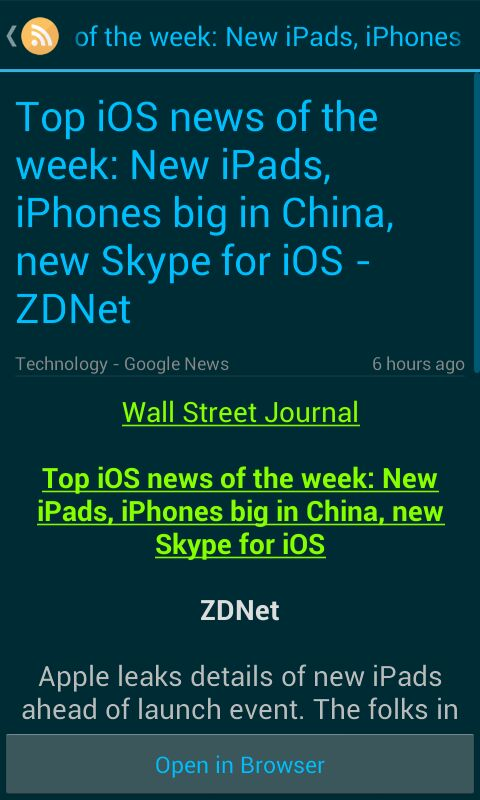
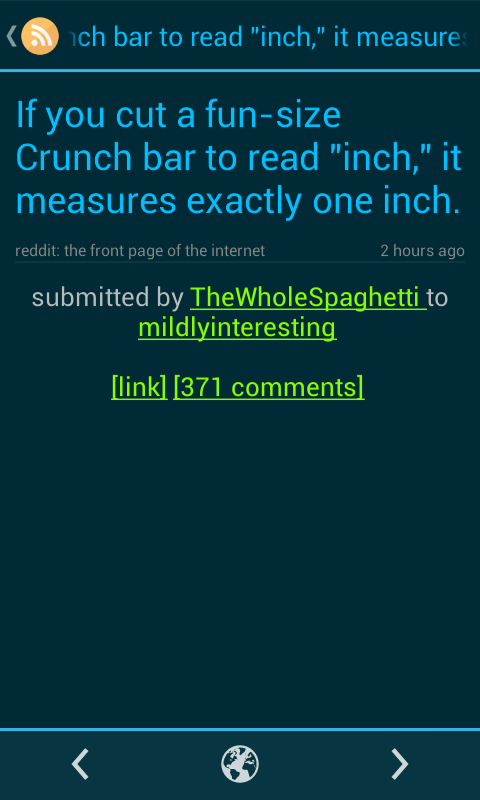
Add bottom action bar for ArticleView
Improve logic for reloading RSSDataBundle data when resuming from ArticleView
activity

diff --git a/app/src/main/java/tan/chesley/rssfeedreader/ArticleView.java b/app/src/main/java/tan/chesley/rssfeedreader/ArticleView.java
@@ -3,6 +3,7 @@ package tan.chesley.rssfeedreader;
 import android.app.ActionBar;
 import android.app.Activity;
 import android.content.Intent;
+import android.net.Uri;
 import android.os.Bundle;
 import android.support.v4.app.FixedFragmentStatePagerAdapter;
 import android.support.v4.app.Fragment;
@@ -12,8 +13,12 @@ import android.support.v4.app.FragmentStatePagerAdapter;
 import android.support.v4.view.ViewPager;
 import android.text.TextUtils.TruncateAt;
 import android.text.method.SingleLineTransformationMethod;
+import android.util.Log;
 import android.view.MenuItem;
+import android.view.View;
+import android.widget.LinearLayout;
 import android.widget.TextView;
+import android.widget.Toast;
 
 import java.util.ArrayList;
 
@@ -26,6 +31,9 @@ public class ArticleView extends FragmentActivity {
 	private ArticleViewPagerChangeListener viewPagerPageChangeListener;
 	private static FragmentStatePagerAdapter viewPagerAdapter;
 	private TextView title;
+    private LinearLayout action_openInBrowser;
+    private LinearLayout action_previous_unread;
+    private LinearLayout action_next_unread;
 
 	public class ArticleViewPagerChangeListener implements
 			ViewPager.OnPageChangeListener {
@@ -62,9 +70,8 @@ public class ArticleView extends FragmentActivity {
 		else {
 			rssData = savedInstanceState.getParcelableArrayList(RSS_DATA_KEY);
 		}
-        viewPager = new ViewPager(this);
-		viewPager.setId(R.id.viewPager);
-		setContentView(viewPager);
+		setContentView(R.layout.article_view);
+        viewPager = (ViewPager) findViewById(R.id.viewPager);
 
 		viewPager
 				.setOnPageChangeListener(viewPagerPageChangeListener = new ArticleViewPagerChangeListener());
@@ -114,6 +121,16 @@ public class ArticleView extends FragmentActivity {
 					.getInstance());
 			title.setTextColor(getResources().getColor((R.color.AppPrimaryTextColor)));
 		}
+
+        action_openInBrowser = (LinearLayout) findViewById(R.id.action_open_in_browser);
+        action_openInBrowser
+            .setOnClickListener(new ArticleViewOpenInBrowserActionClickListener());
+        action_next_unread = (LinearLayout) findViewById(R.id.action_next_unread);
+        action_next_unread
+            .setOnClickListener(new ArticleViewNextUnreadActionClickListener());
+        action_previous_unread = (LinearLayout) findViewById(R.id.action_previous_unread);
+        action_previous_unread
+            .setOnClickListener(new ArticleViewPreviousUnreadActionClickListener());
 	}
 
 	@Override
@@ -139,7 +156,7 @@ public class ArticleView extends FragmentActivity {
 		Intent intent = new Intent();
 		intent.putExtra(ARTICLE_SELECTED_KEY, viewPager.getCurrentItem());
 		setResult(Activity.RESULT_OK, intent);
-		//Log.e("ArticleView", "Activity Finished.");
+		Log.e("ArticleView", "Activity Finished.");
 		super.finish();
 	}
 
@@ -149,4 +166,43 @@ public class ArticleView extends FragmentActivity {
         }
     }
 
+    public class ArticleViewOpenInBrowserActionClickListener implements
+                                                             View.OnClickListener {
+        @Override
+        public void onClick(View arg0) {
+            RSSDataBundle rdBundle = rssData.get(viewPager.getCurrentItem());
+            String url = rdBundle.getLink();
+            // Log.e("URL Open", "URL: " + url);
+            Toaster.showAlternateToast(ArticleView.this, getResources().getString(R.string.takingYouTo) , url, getResources().getDrawable(R.drawable.ic_action_web_site), Toast.LENGTH_LONG);
+            startActivity(new Intent(Intent.ACTION_VIEW, Uri.parse(url)));
+        }
+    }
+
+    public class ArticleViewNextUnreadActionClickListener implements
+                                                          View.OnClickListener {
+        @Override
+        public void onClick(View arg0) {
+            for (int i = viewPager.getCurrentItem();i < rssData.size();i++) {
+                if (!rssData.get(i).isRead()) {
+                    viewPager.setCurrentItem(i, true);
+                    return;
+                }
+            }
+            Toaster.showToast(ArticleView.this, getResources().getString(R.string.noUnreadArticlesFound), Toast.LENGTH_SHORT);
+        }
+    }
+
+    public class ArticleViewPreviousUnreadActionClickListener implements
+                                                              View.OnClickListener {
+        @Override
+        public void onClick(View arg0) {
+            for (int i = viewPager.getCurrentItem();i >= 0;i--) {
+                if (!rssData.get(i).isRead()) {
+                    viewPager.setCurrentItem(i, true);
+                    return;
+                }
+            }
+            Toaster.showToast(ArticleView.this, getResources().getString(R.string.noUnreadArticlesFound), Toast.LENGTH_SHORT);
+        }
+    }
 }

diff --git a/app/src/main/java/tan/chesley/rssfeedreader/ArticleViewFragment.java b/app/src/main/java/tan/chesley/rssfeedreader/ArticleViewFragment.java
@@ -14,7 +14,6 @@ import android.view.Gravity;
 import android.view.LayoutInflater;
 import android.view.View;
 import android.view.ViewGroup;
-import android.widget.Button;
 import android.widget.TextView;
 import android.widget.Toast;
 
@@ -26,7 +25,6 @@ public class ArticleViewFragment extends Fragment {
 	private TextView titleTextView;
 	private TextView sourceTextView;
     private TextView dateTextView;
-	private Button openInBrowserButton;
 
 	public static ArticleViewFragment newArticleViewFragment(RSSDataBundle rdBundle) {
 		Bundle bundle = new Bundle();
@@ -52,7 +50,7 @@ public class ArticleViewFragment extends Fragment {
 	public View onCreateView(LayoutInflater inflater, ViewGroup container,
 			Bundle savedInstanceState) {
 		View theView = inflater
-				.inflate(R.layout.article_view, container, false);
+				.inflate(R.layout.article_view_fragment, container, false);
 		articleTextView = (TextView) theView.findViewById(R.id.articleTextView);
         // TODO show images
 		//articleTextView.setText(Html.fromHtml(rdBundle.getDescription(getActivity()), new URLImageParser(articleTextView, getActivity()), null));
@@ -83,10 +81,6 @@ public class ArticleViewFragment extends Fragment {
 		sourceTextView.setText(rdBundle.getSourceTitle());
         dateTextView = (TextView) theView.findViewById(R.id.dateTextView);
         dateTextView.setText(rdBundle.getUserPreferredDateFormat(getActivity()));
-		openInBrowserButton = (Button) theView
-				.findViewById(R.id.openInBrowserButton);
-		openInBrowserButton
-				.setOnClickListener(new ArticleViewOpenInBrowserButtonClickListener());
 
 		return theView;
 	}
@@ -134,19 +128,6 @@ public class ArticleViewFragment extends Fragment {
 	public void onSaveInstanceState(Bundle outState) {
 		super.onSaveInstanceState(outState);
         outState.putParcelable(RSSDATABUNDLE, rdBundle);
-	}
-
-	public class ArticleViewOpenInBrowserButtonClickListener implements
-			View.OnClickListener {
-
-		@Override
-		public void onClick(View arg0) {
-			String url = rdBundle.getLink();
-			// Log.e("URL Open", "URL: " + url);
-            Toaster.showAlternateToast(getActivity(), getResources().getString(R.string.takingYouTo) , url, getResources().getDrawable(R.drawable.ic_action_web_site), Toast.LENGTH_LONG);
-			startActivity(new Intent(Intent.ACTION_VIEW, Uri.parse(url)));
-		}
-
 	}
 
     /*

diff --git a/app/src/main/java/tan/chesley/rssfeedreader/HeadlinesFragment.java b/app/src/main/java/tan/chesley/rssfeedreader/HeadlinesFragment.java
@@ -310,11 +310,15 @@ public class HeadlinesFragment extends ListFragment implements
         // Receive current article index from ArticleView activity
         if (requestCode == ARTICLE_VIEW_INTENT) {
             resumingFromArticleViewActivity = true;
-
+            int currentArticleIndex = data.getIntExtra(ArticleView.ARTICLE_SELECTED_KEY, 0);
+            RSSDataBundleOpenHelper dbHelper = new RSSDataBundleOpenHelper(getActivity());
+            RSSDataBundle currentSelection = adapter.getItem(currentArticleIndex);
+            boolean currentMarkedReadInDB = dbHelper.isRead(currentSelection.getId()) == 1;
+            boolean isListViewSyncedWithDB = currentSelection.isRead() == currentMarkedReadInDB;
             // If "Don't Keep Activities" is enabled, we need to update the read flag manually
             // because references back to the data ArrayList in other classes will not resolve correctly
-            if (Settings.System.getInt(getActivity().getContentResolver(), Settings.Global.ALWAYS_FINISH_ACTIVITIES, 0) == 1) {
-                RSSDataBundleOpenHelper dbHelper = new RSSDataBundleOpenHelper(getActivity());
+            // Additionally, if the ListView data is out of sync with the database, we need to reload the data
+            if (Settings.System.getInt(getActivity().getContentResolver(), Settings.Global.ALWAYS_FINISH_ACTIVITIES, 0) == 1 || !isListViewSyncedWithDB) {
                 Iterator<RSSDataBundle> iterator = HeadlinesFragment.data.iterator();
                 RSSDataBundle rdBundle;
                 while (iterator.hasNext()) {
@@ -335,8 +339,7 @@ public class HeadlinesFragment extends ListFragment implements
 
             // Force redraw of the ListView to update the Views for read/unread articles
             adapter.notifyDataSetChanged();
-            getListView().setSelection(
-                data.getIntExtra(ArticleView.ARTICLE_SELECTED_KEY, 0));
+            getListView().setSelection(currentArticleIndex);
         }
     }
 
